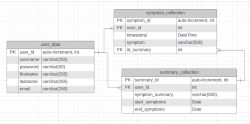
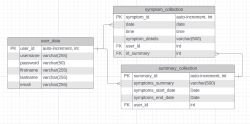
postgres database, schema,  tables created and connection tested

Changed region(s): [[0.0, 0.0484, 0.98, 0.9194]]

diff --git a/application/database_connection.py b/application/database_connection.py
@@ -1,6 +1,7 @@
 import psycopg2
 
 print('Connecting to the PostgreSQL database...')
+# symptom_log is the name of both my database and the schema within it
 
 # Establish a connection to the database
 conn = psycopg2.connect(
@@ -31,8 +32,8 @@ for schema in schemas:
 
 
 cur.execute("""SELECT table_name FROM information_schema.tables
-                WHERE table_schema = 'public'""")
-print("List of tables in schema public:")
+                WHERE table_schema = 'symptom_log'""")
+print("List of tables in schema symptom_log:")
 tables = cur.fetchall()
 for table in tables:
     print(table)
